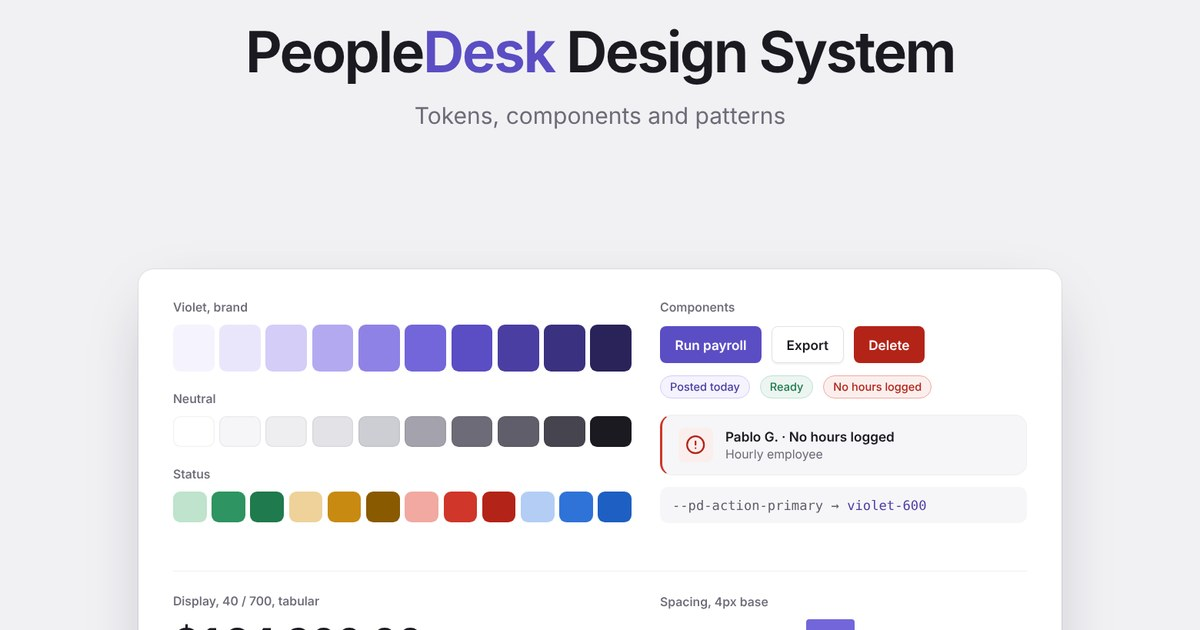
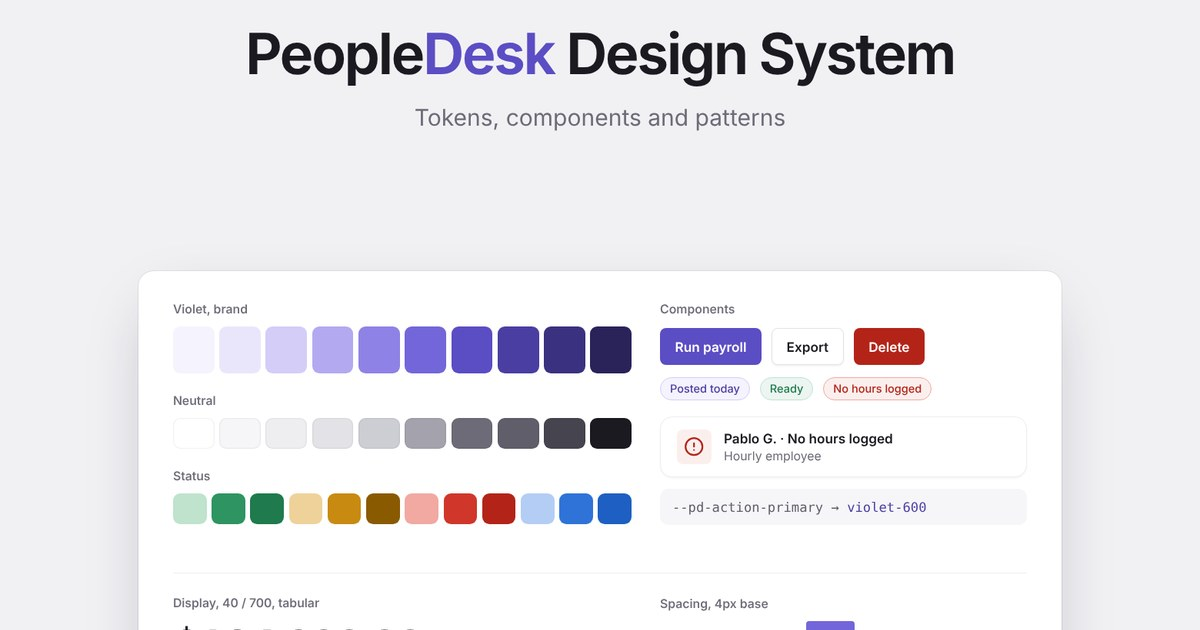
PeopleDesk DS: drop the colored left edge on alert rows
Severity now lives in the icon tile and the action verb. Rows are neutral
white surfaces; resolved rows lose fill and shadow and drop to tertiary text.
On narrow screens the action wraps under the text. Home thumbnail and OG
image regenerated.

Claude-Session: https://claude.ai/code/session_01QBSWLXUUtUBRYm9AwN8RS2

diff --git a/public/work/peopledesk-design-system.html b/public/work/peopledesk-design-system.html
@@ -720,12 +720,10 @@ footer{padding:var(--s-8) 0 var(--s-12);border-top:1px solid var(--line);backgro
 
 /* ── ALERT ROW ─────────────────────────────────────────────── */
 .pd-alert{display:flex;align-items:center;gap:var(--pd-space-4);
-  background:var(--pd-surface-sunken);border:1px solid var(--pd-border-subtle);
-  border-left:3px solid var(--pd-border-default);border-radius:var(--pd-radius-lg);
+  background:var(--pd-surface-raised);border:1px solid var(--pd-border-subtle);
+  border-radius:var(--pd-radius-lg);box-shadow:0 1px 2px rgba(36,30,82,.04);
   padding:var(--pd-space-4) var(--pd-space-5)}
-.pd-alert--critical{border-left-color:var(--pd-red-500)}
-.pd-alert--warning{border-left-color:var(--pd-amber-500)}
-.pd-alert--resolved{border-left-color:var(--pd-green-500);opacity:.72}
+.pd-alert--resolved{background:transparent;box-shadow:none}
 .pd-alert .ic{width:34px;height:34px;border-radius:var(--pd-radius-sm);flex:none;
   display:grid;place-items:center}
 .pd-alert--critical .ic{background:var(--pd-status-critical-bg);color:var(--pd-status-critical-fg)}
@@ -740,6 +738,11 @@ footer{padding:var(--s-8) 0 var(--s-12);border-top:1px solid var(--line);backgro
   min-height:24px;padding:0 2px;border-radius:var(--pd-radius-xs)}
 .pd-alert .act:focus-visible{outline:none;box-shadow:var(--pd-focus-ring)}
 .pd-alert .act.done{color:var(--pd-status-success-fg);cursor:default}
+.pd-alert.pd-alert--resolved .t,.pd-alert.pd-alert--resolved .s{color:var(--pd-text-tertiary)}
+@media (max-width:560px){
+  .pd-alert{flex-wrap:wrap;row-gap:var(--pd-space-2)}
+  .pd-alert .act{flex-basis:100%;margin-left:calc(34px + var(--pd-space-4))}
+}
 
 /* ── PROGRESS ──────────────────────────────────────────────── */
 .pd-progress{height:6px;background:var(--pd-viz-track);border-radius:var(--pd-radius-pill);
